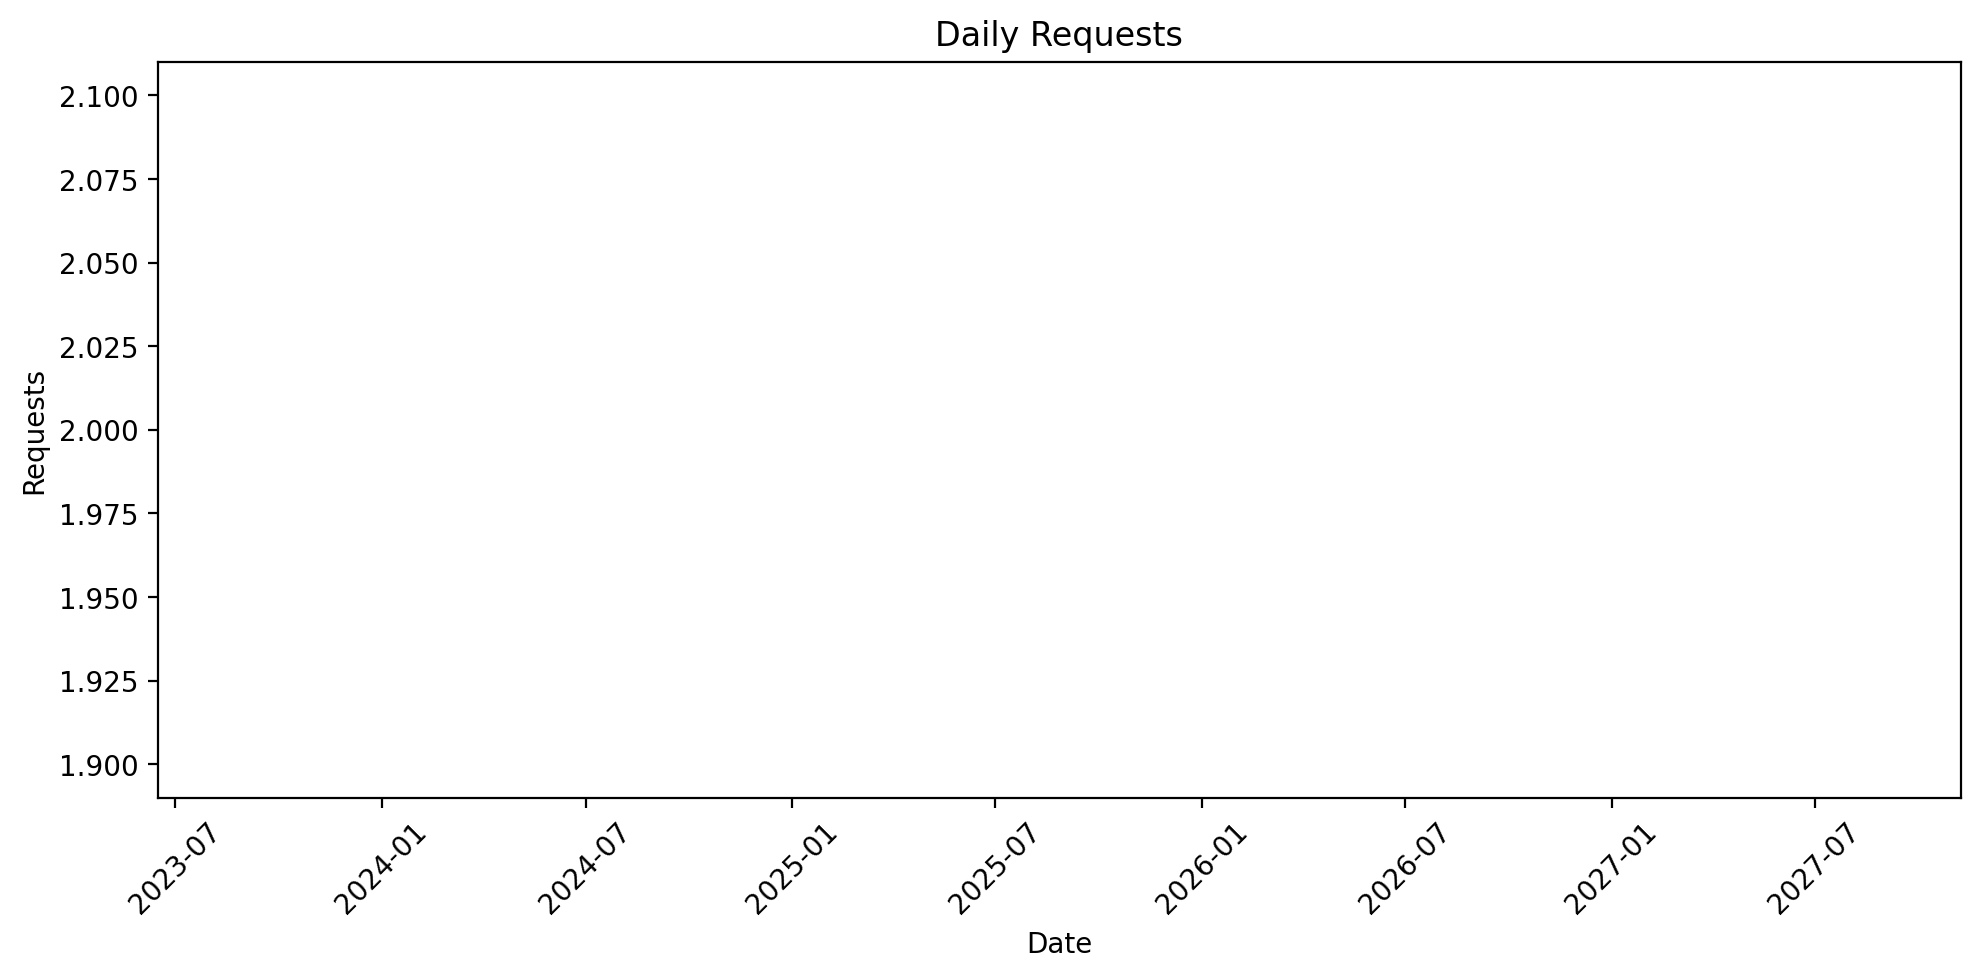
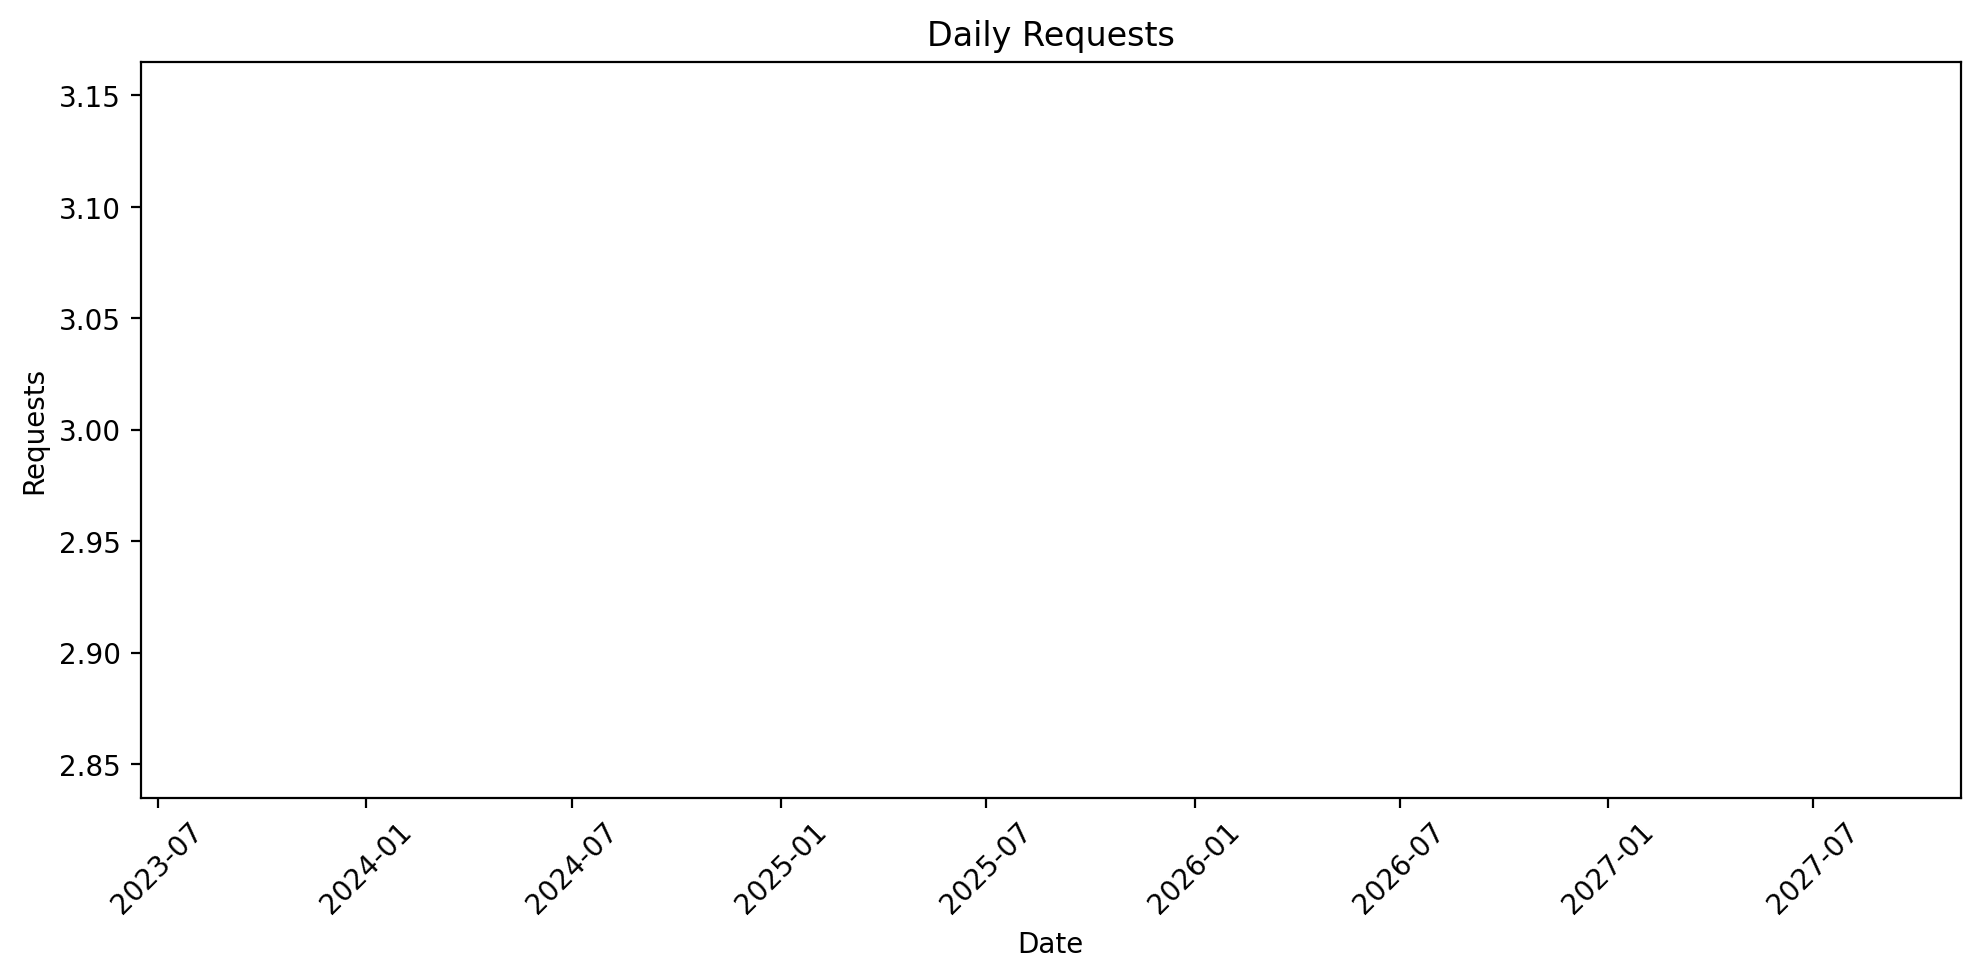
Initial commit: weather agent project

diff --git a/dashboard/dashboard.html b/dashboard/dashboard.html
@@ -1,37 +1,38 @@
-<!DOCTYPE html>
-<html><head><meta charset="utf-8"><title>Weather Agent Dashboard</title>
-<style>
-body { font-family: Arial, sans-serif; margin: 20px; }
-.card { background:#fff;border:1px solid #ddd;border-radius:8px;padding:16px;margin:12px 0; }
-.value { font-size:22px;font-weight:700;color:#0b6; }
-h1 { margin-bottom:6px; }
-img { max-width:100%; height:auto; }
-</style></head><body>
-<h1>🌤 Weather Agent Dashboard</h1>
-<p>Generated at: 2025-08-27T15:46:43.904242</p>
 
-<div class="card">
-  <h2>📊 Requests</h2>
-  <p><span class="value">2</span> total</p>
-  <p><span class="value">2</span> success</p>
-  <p><span class="value">100.0%</span> success rate</p>
-  <p><span class="value">1579.8 ms</span> avg latency</p>
-</div>
+                    <!DOCTYPE html>
+                    <html><head><meta charset="utf-8"><title>Weather Agent Dashboard</title>
+                    <style>
+                    body { font-family: Arial, sans-serif; margin: 20px; }
+                    .card { background:#fff;border:1px solid #ddd;border-radius:8px;padding:16px;margin:12px 0; }
+                    .value { font-size:22px;font-weight:700;color:#0b6; }
+                    h1 { margin-bottom:6px; }
+                    img { max-width:100%; height:auto; }
+                    </style></head><body>
+                    <h1>🌤 Weather Agent Dashboard</h1>
+                    <p>Generated at: 2025-08-27T19:16:34.447832</p>
 
-<div class="card">
-  <h2>⭐ Feedback</h2>
-  <p><span class="value">2</span> total</p>
-  <p><span class="value">1.0</span> avg rating</p>
-</div>
+                    <div class="card">
+                    <h2>📊 Requests</h2>
+                    <p><span class="value">4</span> total</p>
+                    <p><span class="value">4</span> success</p>
+                    <p><span class="value">100.0%</span> success rate</p>
+                    <p><span class="value">1474.5 ms</span> avg latency</p>
+                    </div>
 
-<div class="card">
-  <h2>❌ Errors</h2>
-  <p><span class="value">3</span> total</p>
-</div>
+                    <div class="card">
+                    <h2>⭐ Feedback</h2>
+                    <p><span class="value">2</span> total</p>
+                    <p><span class="value">1.0</span> avg rating</p>
+                    </div>
 
-<h3>📈 Daily Requests</h3><img src="daily_requests.png" alt="Daily Requests"/>
-<h3>🏙 Top Cities</h3><img src="top_cities.png" alt="Top Cities"/>
-<h3>⏱ Response Time Distribution</h3><img src="response_time_distribution.png" alt="Response Time"/>
-<h3>⭐ Ratings</h3><img src="feedback_ratings.png" alt="Ratings"/>
-<h3>🔧 Error Types</h3><img src="error_types.png" alt="Errors"/>
-</body></html>
+                    <div class="card">
+                    <h2>❌ Errors</h2>
+                    <p><span class="value">3</span> total</p>
+                    </div>
+
+                    <h3>🏙 Top Cities</h3><img src="top_cities.png" alt="Top Cities"/>
+                    <h3>⏱ Response Time Distribution</h3><img src="response_time_distribution.png" alt="Response Time"/>
+                    <h3>⭐ Ratings</h3><img src="feedback_ratings.png" alt="Ratings"/>
+                    <h3>🔧 Error Types</h3><img src="error_types.png" alt="Errors"/>
+                    </body></html>
+                

diff --git a/src/dashboard/dashboard.py b/src/dashboard/dashboard.py
@@ -101,10 +101,6 @@ class WeatherAgentDashboard:
         data = self.load_data()
         if "requests" in data:
             df = data["requests"]
-            # по дням
-            daily = df.groupby(df["timestamp"].dt.date).size()
-            self._save_line(daily.index, daily.values, self.output_dir / "daily_requests.png",
-                            "Daily Requests", "Date", "Requests")
             # топ городов
             if "city_extracted" in df and not df["city_extracted"].isna().all():
                 top = df["city_extracted"].value_counts().head(10)
@@ -164,7 +160,6 @@ class WeatherAgentDashboard:
                     <p><span class="value">{report['metrics'].get('errors',{}).get('total_errors',0)}</span> total</p>
                     </div>
 
-                    <h3>📈 Daily Requests</h3><img src="daily_requests.png" alt="Daily Requests"/>
                     <h3>🏙 Top Cities</h3><img src="top_cities.png" alt="Top Cities"/>
                     <h3>⏱ Response Time Distribution</h3><img src="response_time_distribution.png" alt="Response Time"/>
                     <h3>⭐ Ratings</h3><img src="feedback_ratings.png" alt="Ratings"/>

diff --git a/README.md b/README.md
@@ -2,7 +2,7 @@
 
 ### Установка
 ```bash
-git clone https://github.com/your-username/weather-agent.git
+git clone https://github.com/Nomadiction/wether_agent.git
 cd weather-agent
 pip install -r requirements.txt
 ```
